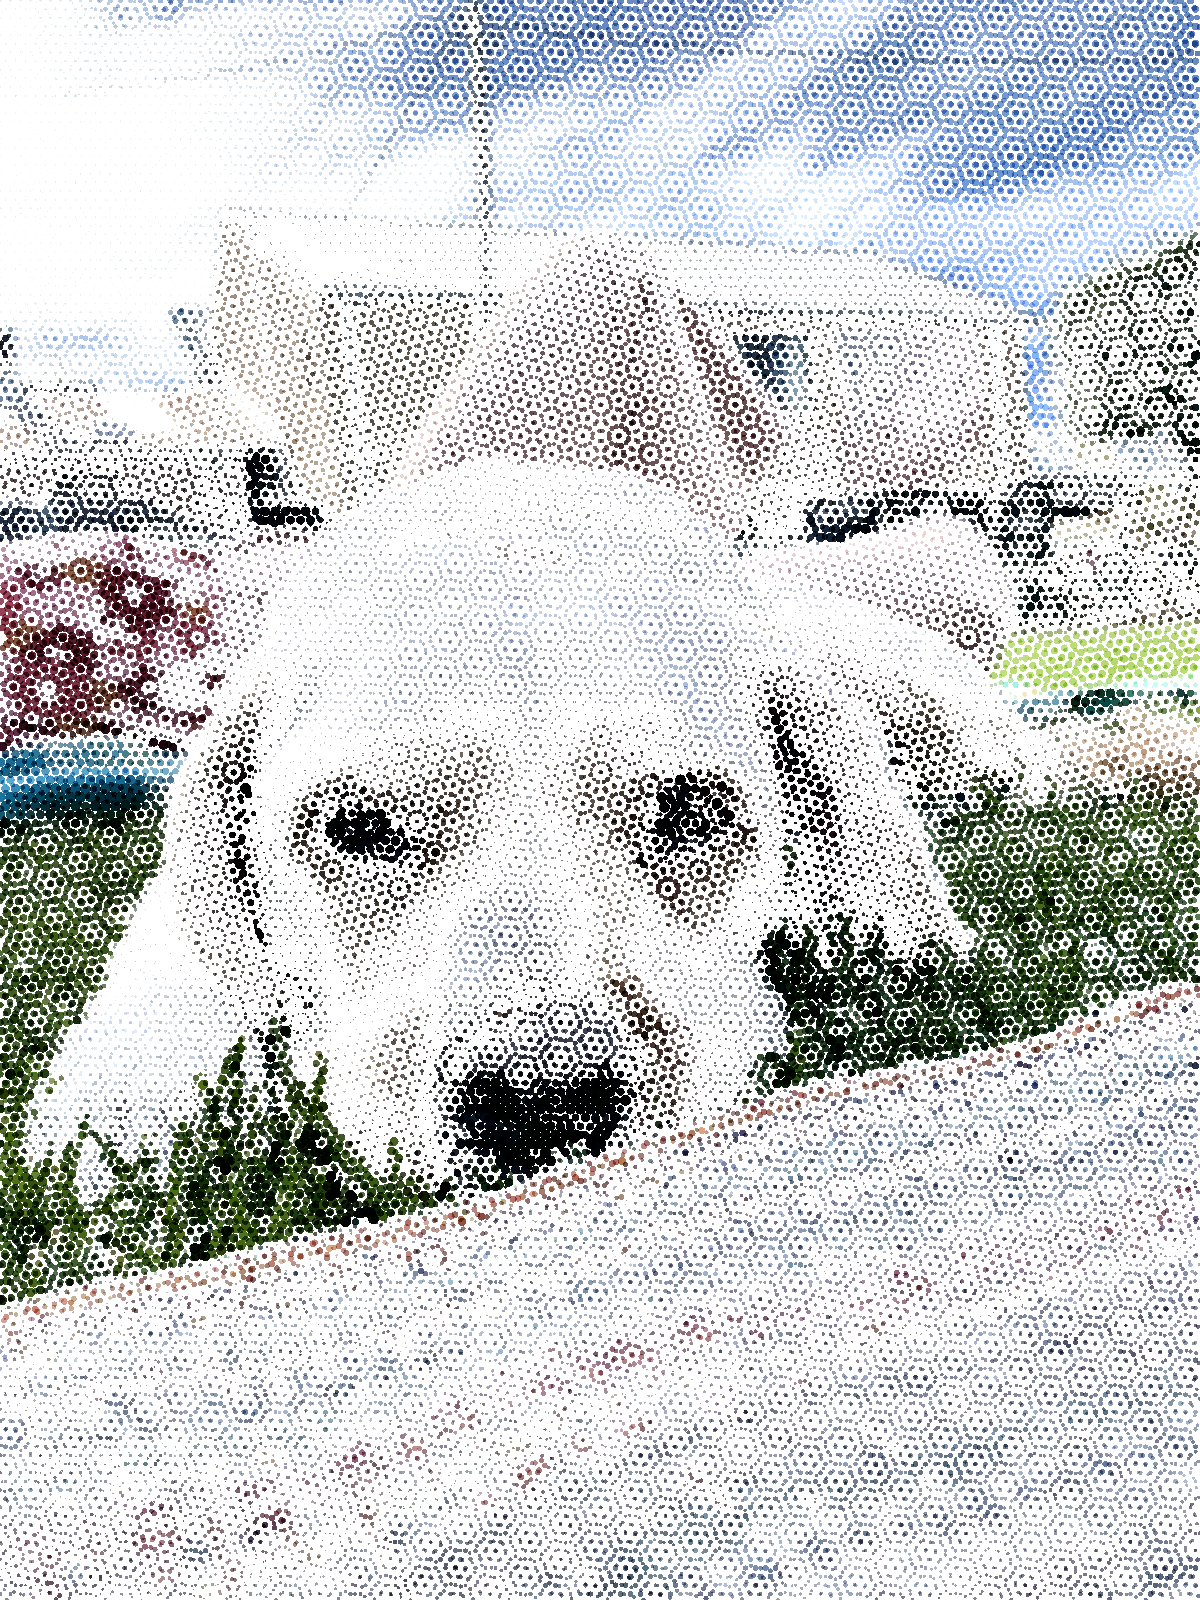
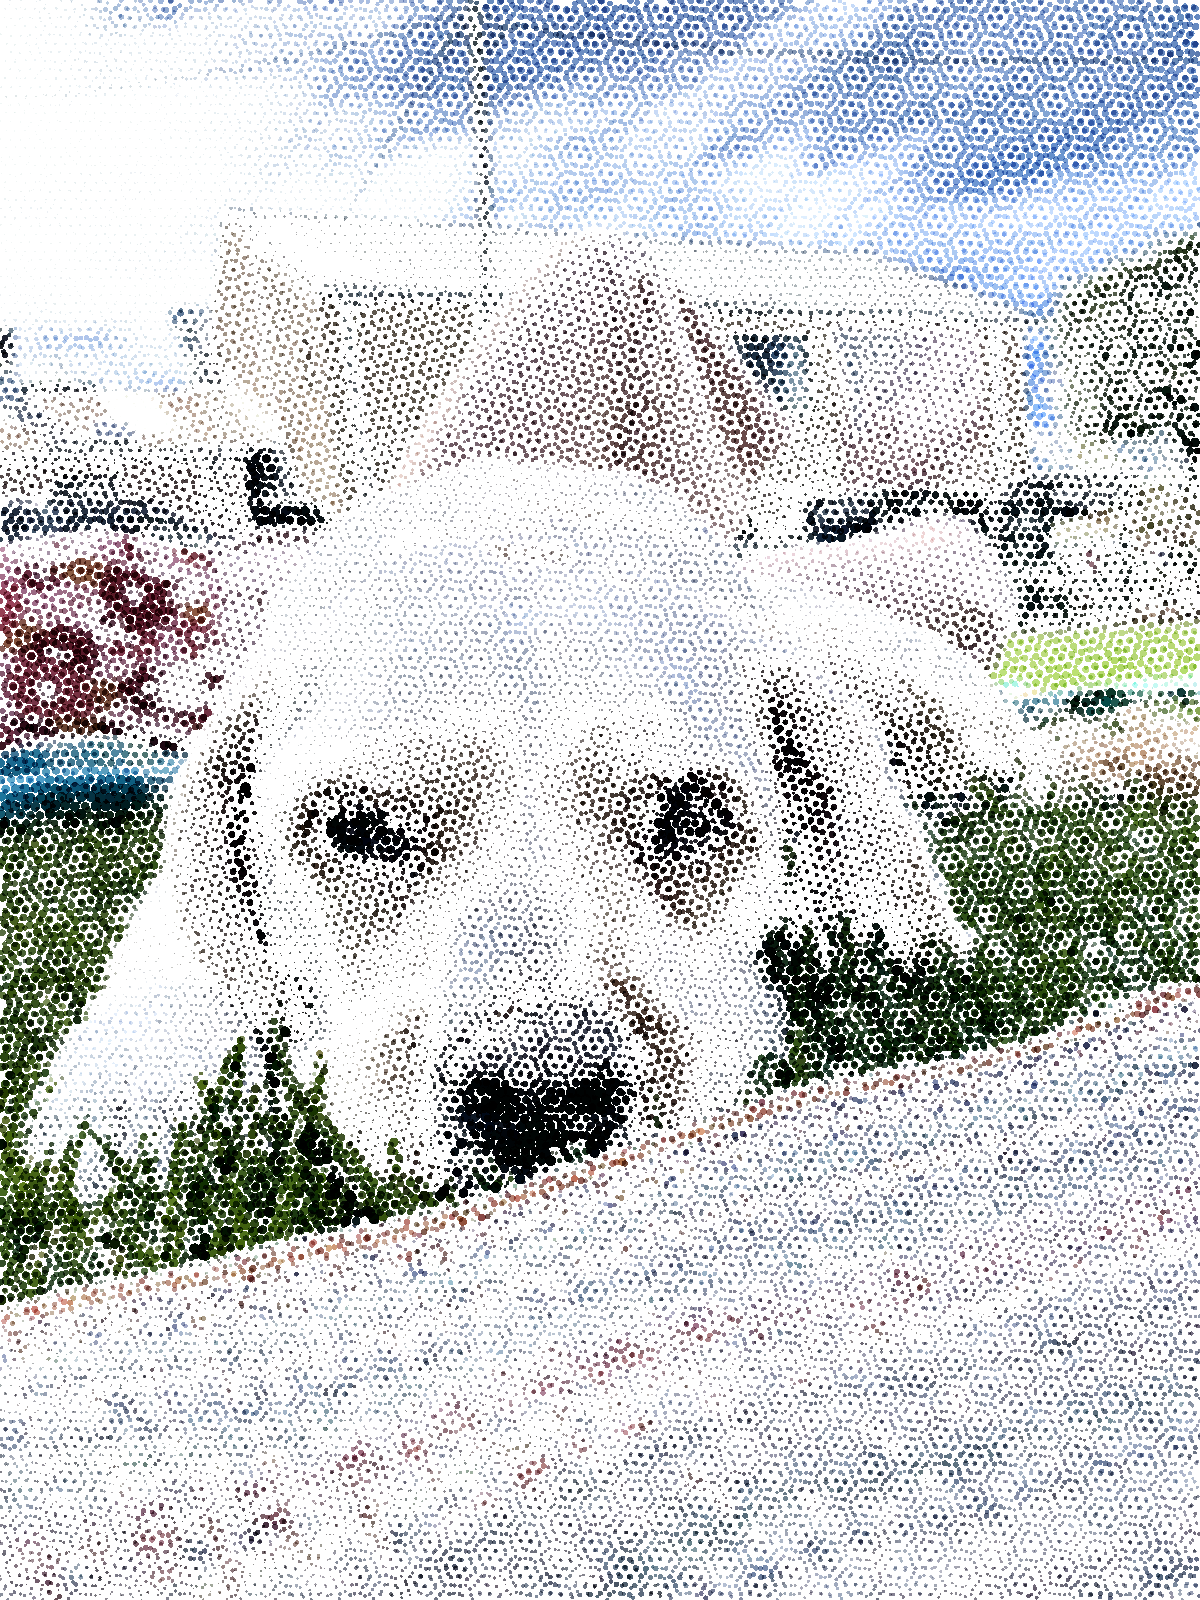
Seirpinski in higher domain

diff --git a/src/algorithms/maths/pinski.rs b/src/algorithms/maths/pinski.rs
@@ -1,4 +1,5 @@
-use crate::utils::colour_utils::ImageColour;
+use glam::{U8Vec3, Vec3};
+use crate::utils::colour_utils::{convert_from_ok_hsl, ColourF3, ColourU3, ImageColour};
 use crate::*;
 use palette::named::{BLACK, WHITE};
 
@@ -13,29 +14,24 @@ impl Generator for Pinski {
         let white = Rgb::<u8>::from_const(WHITE);
         let mut image = args.image_u8(black);
 
-        // for i in 0..(args.width/3) {
-        //     image.put_pixel(i*3,0,white);
-        // }
-
-        image.put_pixel(args.width / 2 - 1, 0, white);
+        image.put_pixel(args.width / 2 - 1, 0, Rgb([1, 3, 5]));
+        let m = U8Vec3::new(16, 16, 16);
 
         for row in 1..args.height {
             for mid in 0..args.width {
                 let right = mid + 1;
                 let left = mid - 1;
-                let left_v =
-                    u24_from_colour(image.get_pixel_checked(left, row - 1).unwrap_or(&black));
-                let right_v =
-                    u24_from_colour(image.get_pixel_checked(right, row - 1).unwrap_or(&black));
-                let sum = left_v + right_v;
+                let left_v = image.get_pixel_checked(left, row - 1).unwrap_or(&black);
+                let right_v = image.get_pixel_checked(right, row - 1).unwrap_or(&black);
+                let sum = left_v.to_vec3() + right_v.to_vec3();
+                let c = sum % m;
 
-                let c = if sum % 2 == 1 { white } else { black };
-
-                // let c = colour_from_u24(sum);
-                image.put_pixel(mid, row, c)
+                image.put_pixel(mid, row, Rgb::<u8>::from_vec3(c))
             }
         }
-
+        image.pixels_mut().for_each(|x| {
+            *x = Rgb::<u8>::from_vec3(x.to_vec3() * (U8Vec3::splat(255) / m));
+        });
         image.into()
     }
 
@@ -74,3 +70,10 @@ fn u24_from_colour(c: &Rgb<u8>) -> U24 {
     let b = c.0[2] as u32;
     (r << (2 * 8)) + (g << 8) + b
 }
+
+// fn colour_from_u24(c: U24) -> Rgb<u8> {
+//     let r = c >> 16;
+//     let g = (c >> 8) & 0b1111_1111;
+//     let b = c & 0b1111_1111;
+//     Rgb::<u8>::from([r, g, b].map(|x| x as u8))
+// }

diff --git a/src/algorithms/pixel/domain.rs b/src/algorithms/pixel/domain.rs
@@ -4,7 +4,7 @@ use crate::{utils, Generator};
 use glam::Vec2;
 use image::{DynamicImage, Rgb, RgbImage};
 use palette::named::{BLACK};
-use palette::LinSrgb;
+use palette::{LinSrgb, Srgb};
 
 const SCALE: f32 = 1.0;
 
@@ -51,20 +51,24 @@ impl Generator for DomainWarping {
             let ay = (p.y / (spacing)) as u32 % 2 == 0;
             let on_top = ax ^ ay;
 
-            let mut c1 = utils::colour_utils::into_no_alpha(LinSrgb::new(
-                p.x / w_f32 * 0.7,
-                0.,
-                p.y / h_f32,
-            ));
+            let insync_pink = Srgb::new(
+                0.7764705882,
+                0.1176470588,
+                0.4156862745,
+            );
+
+            let mut c1 = utils::colour_utils::into_no_alpha(insync_pink);
             if hoz_border {
                 c1 = Rgb::<u8>::from_const(BLACK);
             }
 
-            let mut c2 = utils::colour_utils::into_no_alpha(LinSrgb::new(
-                0.,
-                p.y / w_f32 * 0.7,
-                1.0 - p.x / h_f32,
-            ));
+            let insync_blue = Srgb::new(
+                0.1686274510,
+                0.2196078431,
+                0.5607843137,
+            );
+
+            let mut c2 = utils::colour_utils::into_no_alpha(insync_blue);
 
             if vert_border {
                 c2 = Rgb::<u8>::from_const(BLACK);

diff --git a/src/algorithms/particle/voronoi.rs b/src/algorithms/particle/voronoi.rs
@@ -3,7 +3,7 @@ use crate::*;
 use glam::f64::DVec2 as Vec2;
 use rand::random;
 use rayon::prelude::*;
-use crate::utils::colour_utils::Colour3;
+use crate::utils::colour_utils::ColourF3;
 use crate::utils::num_utils::lerp;
 
 const BLACK: Rgb<f32> = Rgb([0.0, 0.0, 0.0]);
@@ -15,8 +15,10 @@ pub fn points(args: &Args, extend: f64) -> Vec<(DVec2, Rgb<f32>)> {
         .map(|_| {
             let p = Vec2::new(w * f(), h * f());
             let (x, y) = ((p.x / w) as f32, (p.y / h) as f32);
-            let c1 = Rgb([0.17_f32, 0.22_f32, 0.56_f32]);
-            let c2 = Rgb([0.78_f32, 0.16_f32, 0.42_f32]);
+            let c1 = Rgb([0.99_f32, 0.57, 0.07]);
+            let c2 = Rgb([1_f32, 0.37, 0.38]);
+            // let insync1 = Rgb([0.17_f32, 0.22_f32, 0.56_f32]);
+            // let insync2 = Rgb([0.78_f32, 0.16_f32, 0.42_f32]);
             let mut c = lerp(x, c1.to_vec3(), c2.to_vec3());
             c *= lerp(1.0 - y, 0.4, 1.0);
             (p, Rgb::from_vec3(c))

diff --git a/src/algorithms/shapes/delaunay.rs b/src/algorithms/shapes/delaunay.rs
@@ -1,7 +1,7 @@
 use crate::algorithms::particle::voronoi::points;
 use crate::algorithms::shapes::types::shape_set::ShapeSet;
 use crate::algorithms::shapes::types::tri::Triangle;
-use crate::utils::colour_utils::Colour3;
+use crate::utils::colour_utils::ColourF3;
 use crate::*;
 use glam::{DVec2, Vec3};
 use rayon::prelude::*;
@@ -20,12 +20,13 @@ impl Generator for DelaunayTri {
         let points = points(args, 1.4);
         let triangles = delaunay_triangulation(&points);
 
+        let darken = 0.7;
         let triangles = triangles
             .into_iter()
             .map(|t| {
                 Triangle::new(
                     t.map(|x| x.0.as_vec2()),
-                    Rgb::<f32>::from_vec3(t.map(|x| x.1.to_vec3()).iter().sum::<Vec3>() / 3.),
+                    Rgb::<f32>::from_vec3(t.map(|x| x.1.to_vec3() * darken).iter().sum::<Vec3>() / 3.),
                 )
             })
             .collect::<Vec<Triangle>>();

diff --git a/src/utils/colour_utils.rs b/src/utils/colour_utils.rs
@@ -2,7 +2,7 @@
 
 use crate::utils::num_utils::lerp;
 use crate::*;
-use glam::{Vec3, Vec4};
+use glam::{U8Vec3, Vec3, Vec4};
 use palette::{convert, Clamp, IntoColor};
 use rand::random;
 
@@ -136,17 +136,32 @@ impl<T: ColourType> ImageColour<T> for image::Rgba<T> {
     }
 }
 
-pub(crate) trait Colour3 {
+pub(crate) trait ColourU3 {
+    fn to_vec3(self) -> glam::U8Vec3;
+    fn from_vec3(x: glam::U8Vec3) -> Self;
+}
+
+pub(crate) trait ColourF3 {
     fn to_vec3(self) -> glam::Vec3;
     fn from_vec3(x: glam::Vec3) -> Self;
 }
 
-impl Colour3 for Rgb<f32> {
+impl ColourF3 for Rgb<f32> {
     fn to_vec3(self) -> Vec3 {
         Vec3::from_array(self.0)
     }
 
     fn from_vec3(x: Vec3) -> Self {
+        Self::from(x.to_array())
+    }
+}
+
+impl ColourU3 for Rgb<u8> {
+    fn to_vec3(self) -> U8Vec3 {
+        U8Vec3::from_array(self.0)
+    }
+
+    fn from_vec3(x: U8Vec3) -> Self {
         Self::from(x.to_array())
     }
 }

diff --git a/src/main.rs b/src/main.rs
@@ -16,8 +16,8 @@ trait Generator: Default {
 }
 
 fn main() {
-    let a = Args::new(1200, 1600, "./demo");
-    ImageManager::run::<algorithms::shapes::halftone::Halftone>(&a).unwrap();
+    let a = Args::new(200, 200, "./out");
+    ImageManager::run::<algorithms::maths::pinski::Pinski>(&a).unwrap();
 }
 
 #[cfg(test)]

diff --git a/src/algorithms/shapes/types/ball.rs b/src/algorithms/shapes/types/ball.rs
@@ -1,6 +1,6 @@
 use crate::algorithms::shapes::halftone::CMYK;
 use crate::algorithms::shapes::types::shape_object::ShapeObject;
-use crate::utils::colour_utils::Colour3;
+use crate::utils::colour_utils::ColourF3;
 use glam::{Vec2, Vec3};
 use image::Rgb;
 
